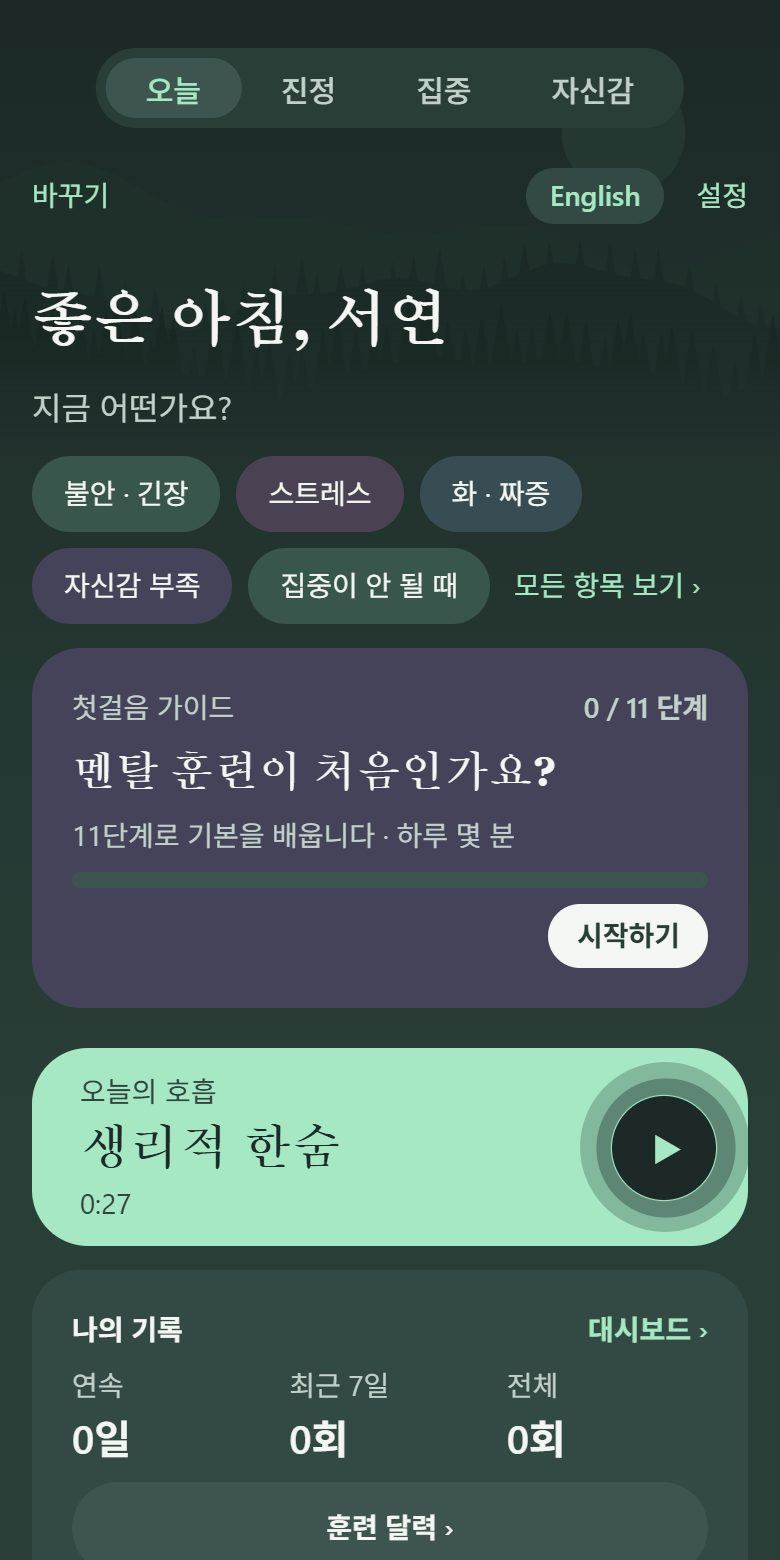
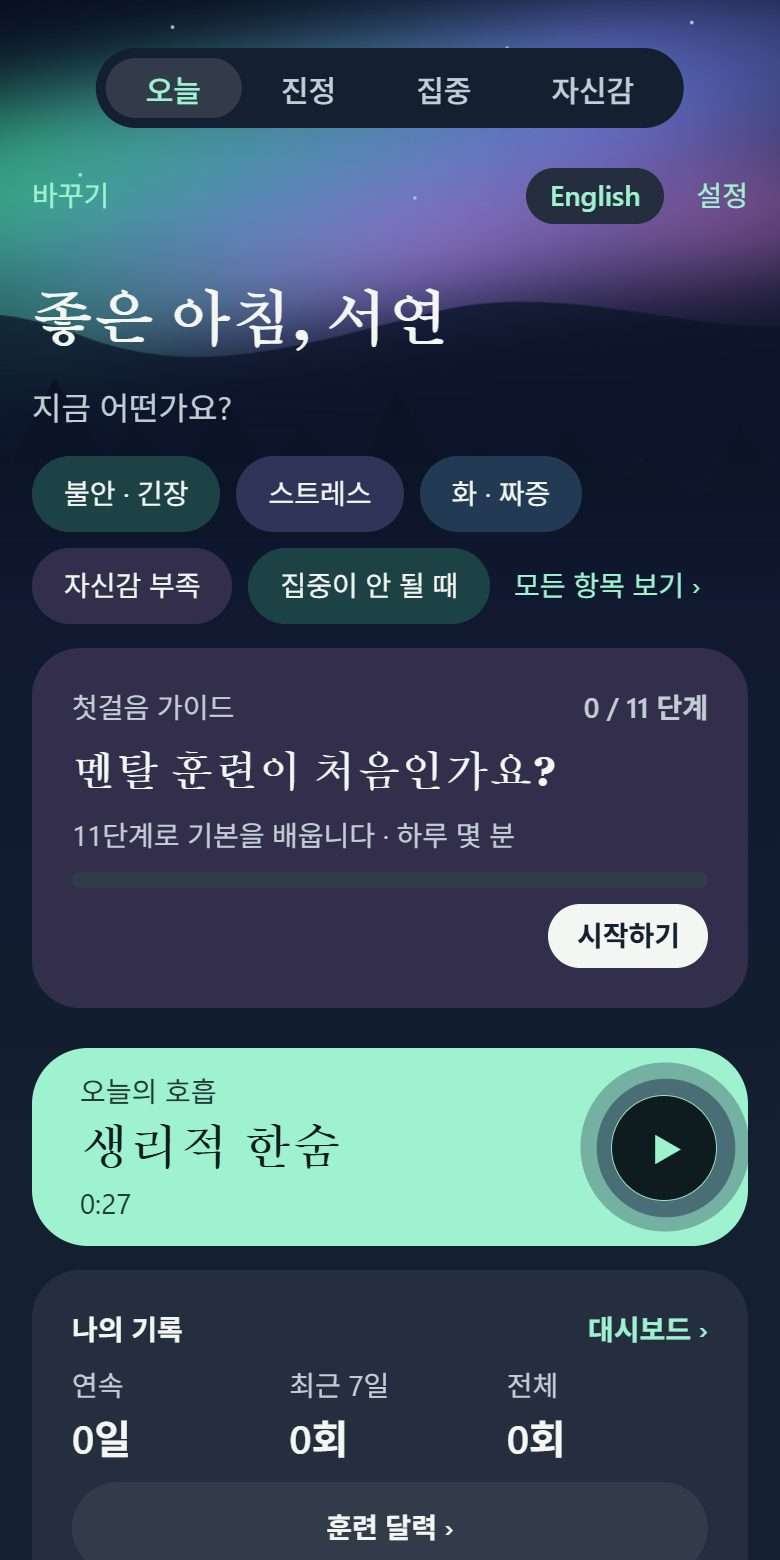
Aurora look: navy night sky, green-to-violet light behind the phone, new app screenshots and link preview

diff --git a/index.html b/index.html
@@ -12,7 +12,7 @@
 <meta property="og:image" content="https://h00nster15.github.io/poise-site/og.png">
 <meta property="og:url" content="https://h00nster15.github.io/poise-site/">
 <meta name="twitter:card" content="summary_large_image">
-<meta name="theme-color" content="#1C2926">
+<meta name="theme-color" content="#080E20">
 <link rel="icon" href="favicon.svg" type="image/svg+xml">
 <link rel="preconnect" href="https://fonts.googleapis.com">
 <link rel="preconnect" href="https://fonts.gstatic.com" crossorigin>
@@ -22,26 +22,27 @@
    benefits → research → library → try-it band → workshop sign-up → FAQ). Colours = the Poise app's
    Forest Calm palette plus its per-technique colours (poise/src/constants/theme.ts). */
 :root {
-  /* Dusk Forest (2026-11-11): the Instagram cards' look on every page — the dusk greens, light text,
-     and the breath-circle mint as the one accent. Same values as the app's default palette. */
-  --bg: #22332E;
-  --surface: #2E443D;
+  /* Aurora (2026-11-12, 보랏빛 오로라): a navy night sky, green-to-violet light along the top of the
+     hero, cards like frosted glass and tiles tinted with the aurora's colours; mint is the one accent.
+     Same values as the app's default palette (poise/src/constants/theme.ts). */
+  --bg: #141F30;
+  --surface: #242E3E;
   --fg: #F3F6F2;
-  --muted: #C2D0CA;
-  --line: #46605A;
-  --accent: #A6E8C3;
-  --on-accent: #1C2926;
-  --hero: #1C2926;
+  --muted: #C3CDD6;
+  --line: #414A57;
+  --accent: #9FF2CF;
+  --on-accent: #0E1C1F;
+  --hero: #080E20;
   --hero-fg: #F3F6F2;
-  --sun: #3E5F53;
-  --breath: #A6E8C3;
-  --glow: #3E5F53;
-  --sage: #38564B;
-  --peach: #4A4252;
-  --sand: #444359;
-  --mist: #384D53;
-  --dusk: #1C2926;
-  --dusk-2: #2F4640;
+  --sun: #24364F;
+  --breath: #9FF2CF;
+  --glow: #24364F;
+  --sage: #1D4245;
+  --peach: #2F3459;
+  --sand: #322E4C;
+  --mist: #223A53;
+  --dusk: #080E20;
+  --dusk-2: #172540;
   --dusk-fg: #F3F6F2;
   --k-breath: #1E7A50;
   --k-routine: #3A6FC0;
@@ -86,7 +87,7 @@ section { padding-block: 88px; }
 .top .btn { padding: 10px 18px; font-size: 14px; }
 
 /* hero */
-.hero { background: linear-gradient(180deg, var(--dusk) 0%, var(--dusk-2) 100%); color: var(--hero-fg); position: relative; overflow: hidden; }
+.hero { background: linear-gradient(180deg, var(--dusk) 0%, #0F1830 55%, var(--dusk-2) 100%); color: var(--hero-fg); position: relative; overflow: hidden; }
 .hero .wrap { display: grid; grid-template-columns: 1.05fr .95fr; gap: 40px; align-items: center; padding-block: 72px 0; }
 .hero .wrap > * { min-width: 0; }
 .hero .eyebrow { font-size: 14px; letter-spacing: .1em; color: var(--hero-fg); opacity: .85; font-weight: 500; }
@@ -95,7 +96,7 @@ section { padding-block: 88px; }
 .hero .ctas { display: flex; flex-wrap: wrap; gap: 12px; margin-top: 32px; padding-bottom: 72px; }
 .hero .btn-line { color: var(--hero-fg); box-shadow: inset 0 0 0 1px var(--hero-fg); }
 .hero-art { position: relative; height: 100%; min-height: 520px; display: flex; align-items: flex-end; justify-content: center; }
-.hero-sun { position: absolute; width: 420px; max-width: 90%; aspect-ratio: 1; border-radius: 50%; background: radial-gradient(circle, rgba(166,232,195,.32) 0%, rgba(166,232,195,.1) 45%, rgba(166,232,195,0) 70%); opacity: 1; top: 40px; left: 50%; transform: translateX(-50%); }
+.hero-sun { position: absolute; width: 150%; left: -25%; top: -40px; height: 380px; border-radius: 50%; transform: rotate(-8deg); filter: blur(60px); opacity: .7; pointer-events: none; background: linear-gradient(90deg, rgba(70,224,166,0) 0%, #46E0A6 28%, #7C8CFF 60%, #D27FE0 82%, rgba(210,127,224,0) 100%); }
 .phone { position: relative; width: 270px; max-width: 70%; border-radius: 40px 40px 0 0; padding: 12px 12px 0; background: #111816; box-shadow: 0 30px 60px rgba(0,0,0,.25); }
 .phone img { border-radius: 30px 30px 0 0; aspect-ratio: 390 / 700; object-fit: cover; object-position: top; width: 100%; }
 .float { position: absolute; background: var(--surface); color: var(--fg); border-radius: 16px; padding: 10px 14px; font-size: 13px; box-shadow: 0 10px 24px rgba(0,0,0,.18); display: flex; align-items: center; gap: 10px; }
@@ -267,7 +268,7 @@ footer .legal { grid-column: 1 / -1; border-top: 1px solid var(--line); padding-
 <header class="top">
   <div class="wrap">
     <a class="logo" href="#top" aria-label="Poise 홈">
-      <svg viewBox="0 0 64 64" aria-hidden="true"><circle cx="32" cy="32" r="27" fill="none" stroke="#F3F6F2" stroke-width="4"/><circle cx="32" cy="32" r="13" fill="#A6E8C3"/></svg>
+      <svg viewBox="0 0 64 64" aria-hidden="true"><circle cx="32" cy="32" r="27" fill="none" stroke="#F3F6F2" stroke-width="4"/><circle cx="32" cy="32" r="13" fill="#9FF2CF"/></svg>
       <b>Poise</b><span>포이즈</span>
     </a>
     <nav>
@@ -539,7 +540,7 @@ footer .legal { grid-column: 1 / -1; border-top: 1px solid var(--line); padding-
 <footer>
   <div class="wrap">
     <div>
-      <a class="logo" href="#top"><svg viewBox="0 0 64 64" aria-hidden="true" style="width:28px;height:28px"><circle cx="32" cy="32" r="27" fill="none" stroke="#F3F6F2" stroke-width="4"/><circle cx="32" cy="32" r="13" fill="#A6E8C3"/></svg><b style="color:var(--fg)">Poise</b><span>by Wellperion</span></a>
+      <a class="logo" href="#top"><svg viewBox="0 0 64 64" aria-hidden="true" style="width:28px;height:28px"><circle cx="32" cy="32" r="27" fill="none" stroke="#F3F6F2" stroke-width="4"/><circle cx="32" cy="32" r="13" fill="#9FF2CF"/></svg><b style="color:var(--fg)">Poise</b><span>by Wellperion</span></a>
       <p style="margin-top:12px;max-width:26em">선수와 동호인을 위한 멘탈 트레이닝. 스쿼시 코트에서 시작했어요.</p>
     </div>
     <div>
